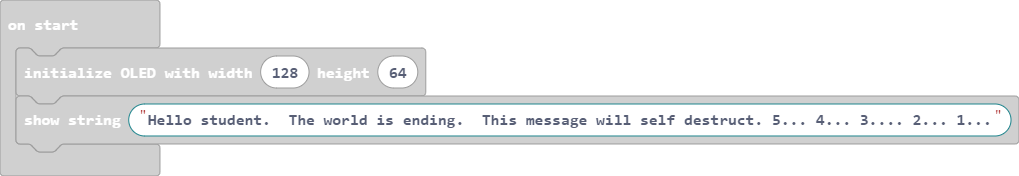
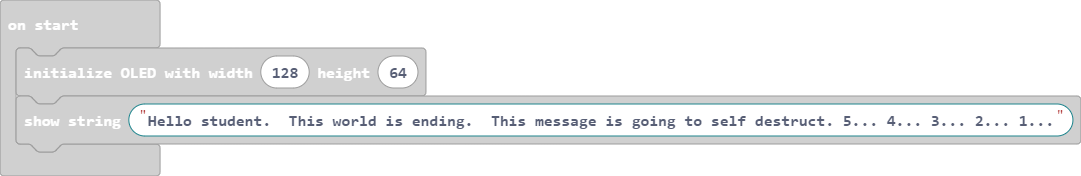
Update main.blocks, main.ts

diff --git a/main.ts b/main.ts
@@ -1,2 +1,2 @@
 OLED.init(128, 64)
-OLED.writeStringNewLine("Hello student.  The world is ending.  This message will self destruct. 5... 4... 3.... 2... 1...")
+OLED.writeStringNewLine("Hello student.  This world is ending.  This message is going to self destruct. 5... 4... 3... 2... 1...")
